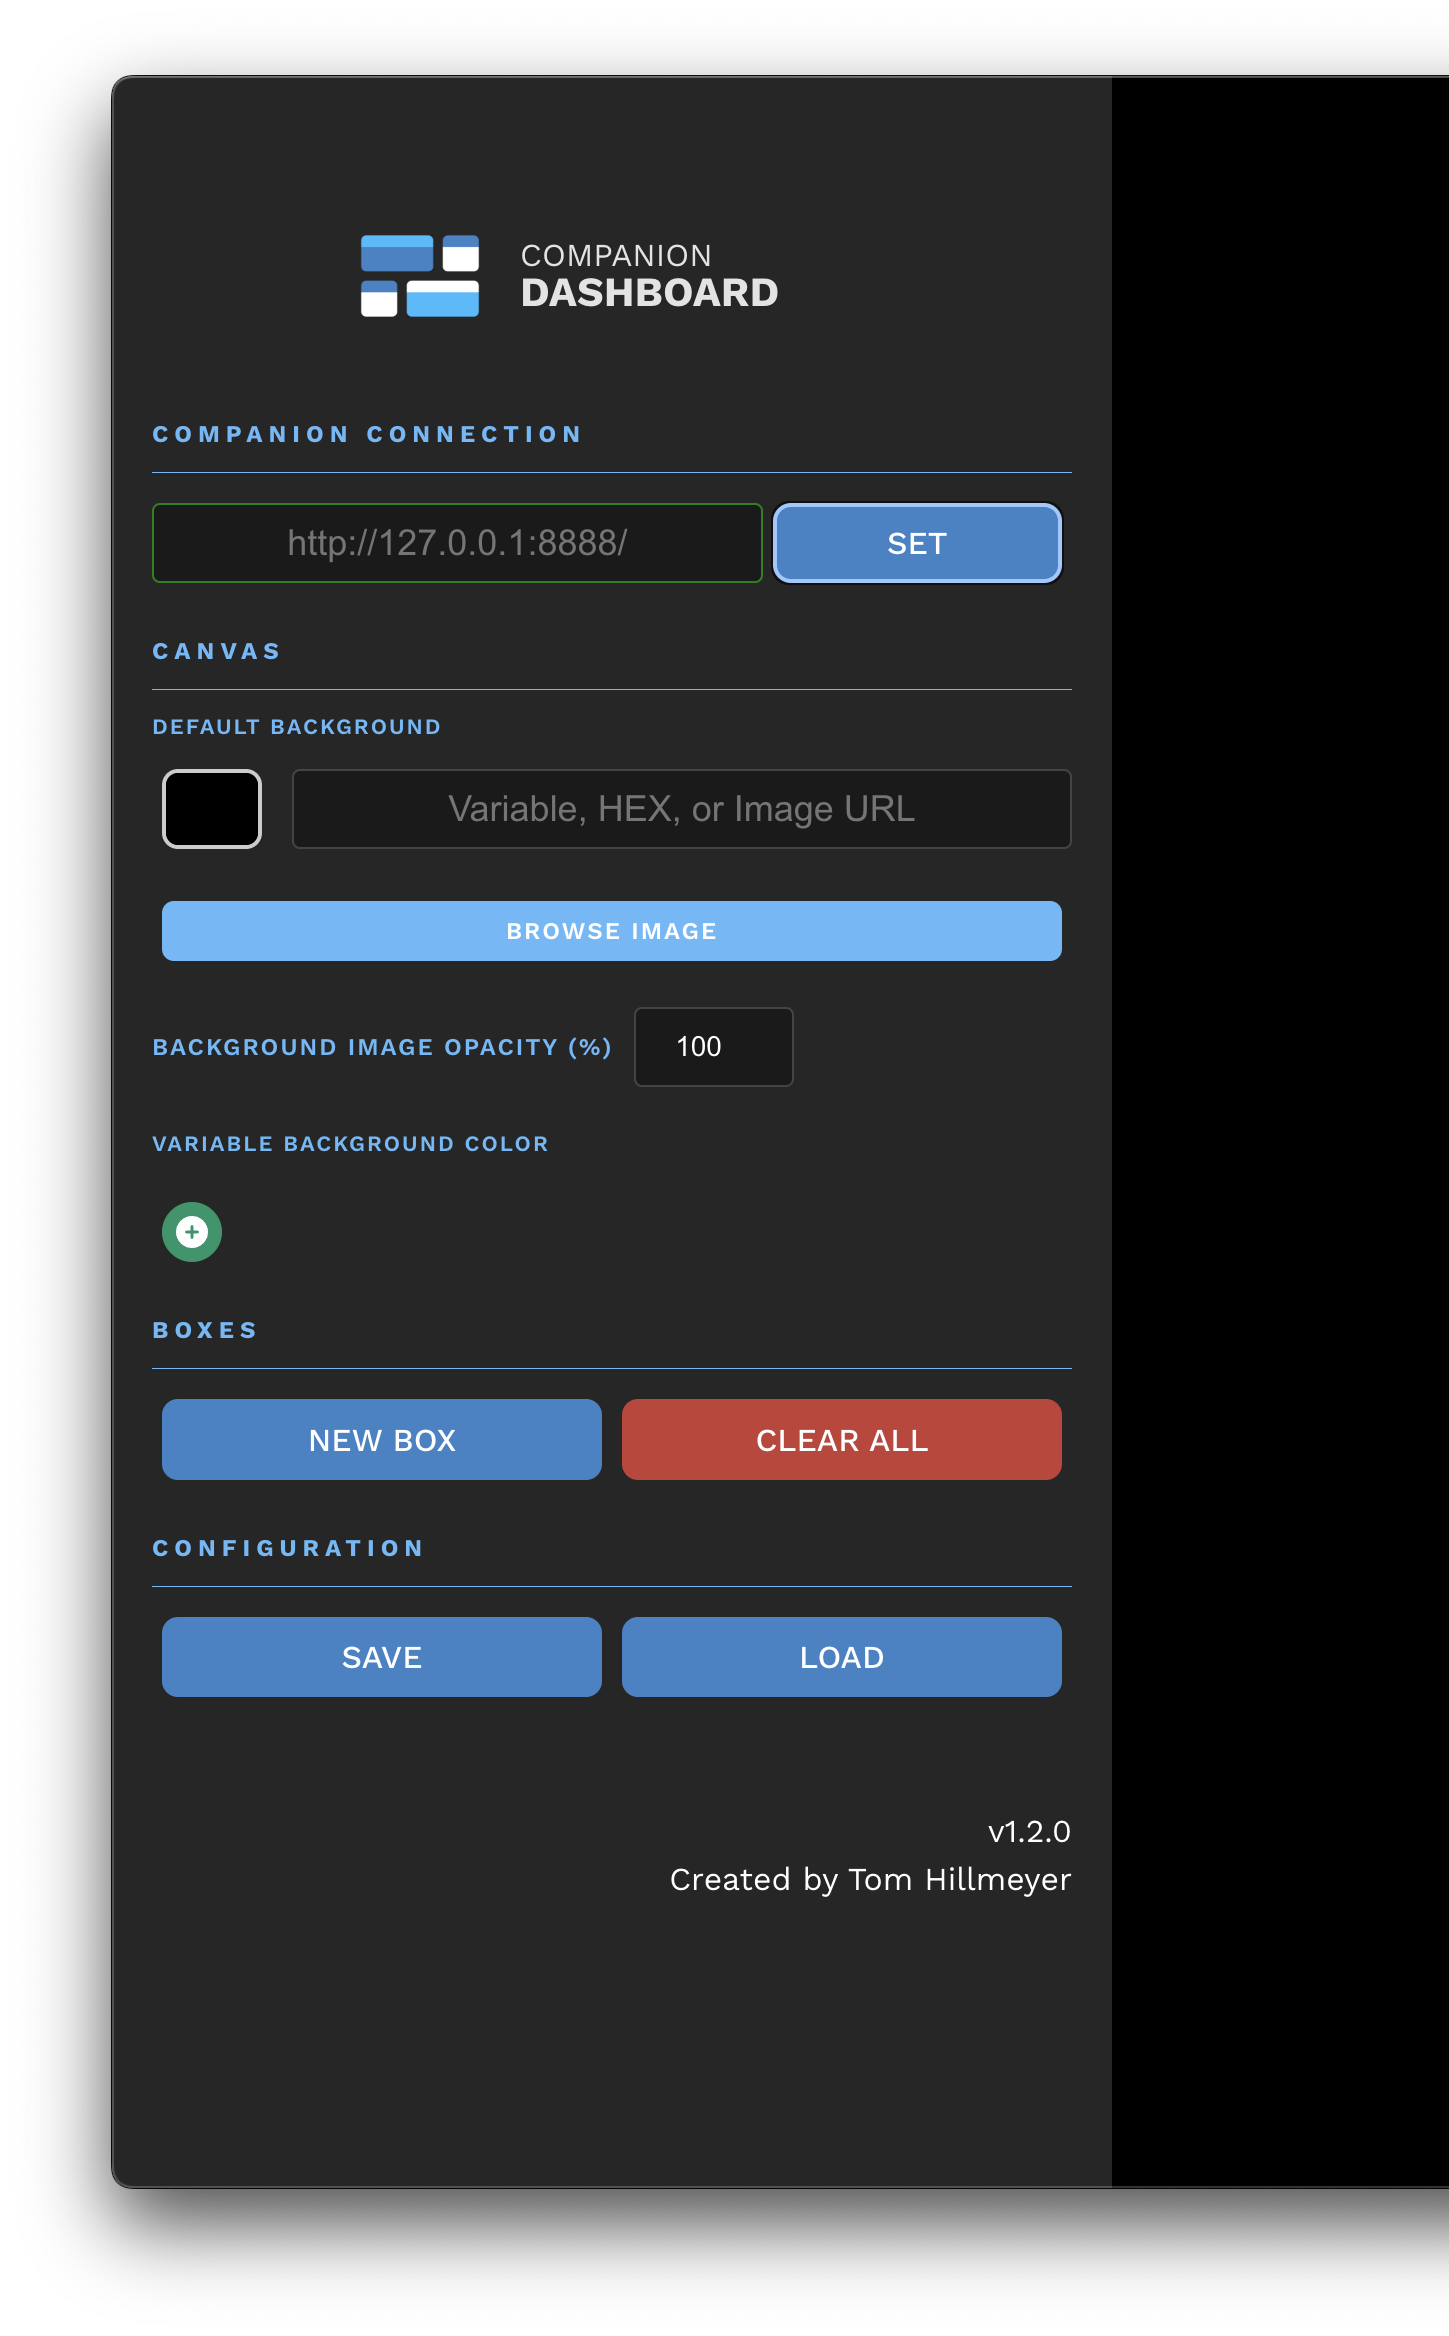
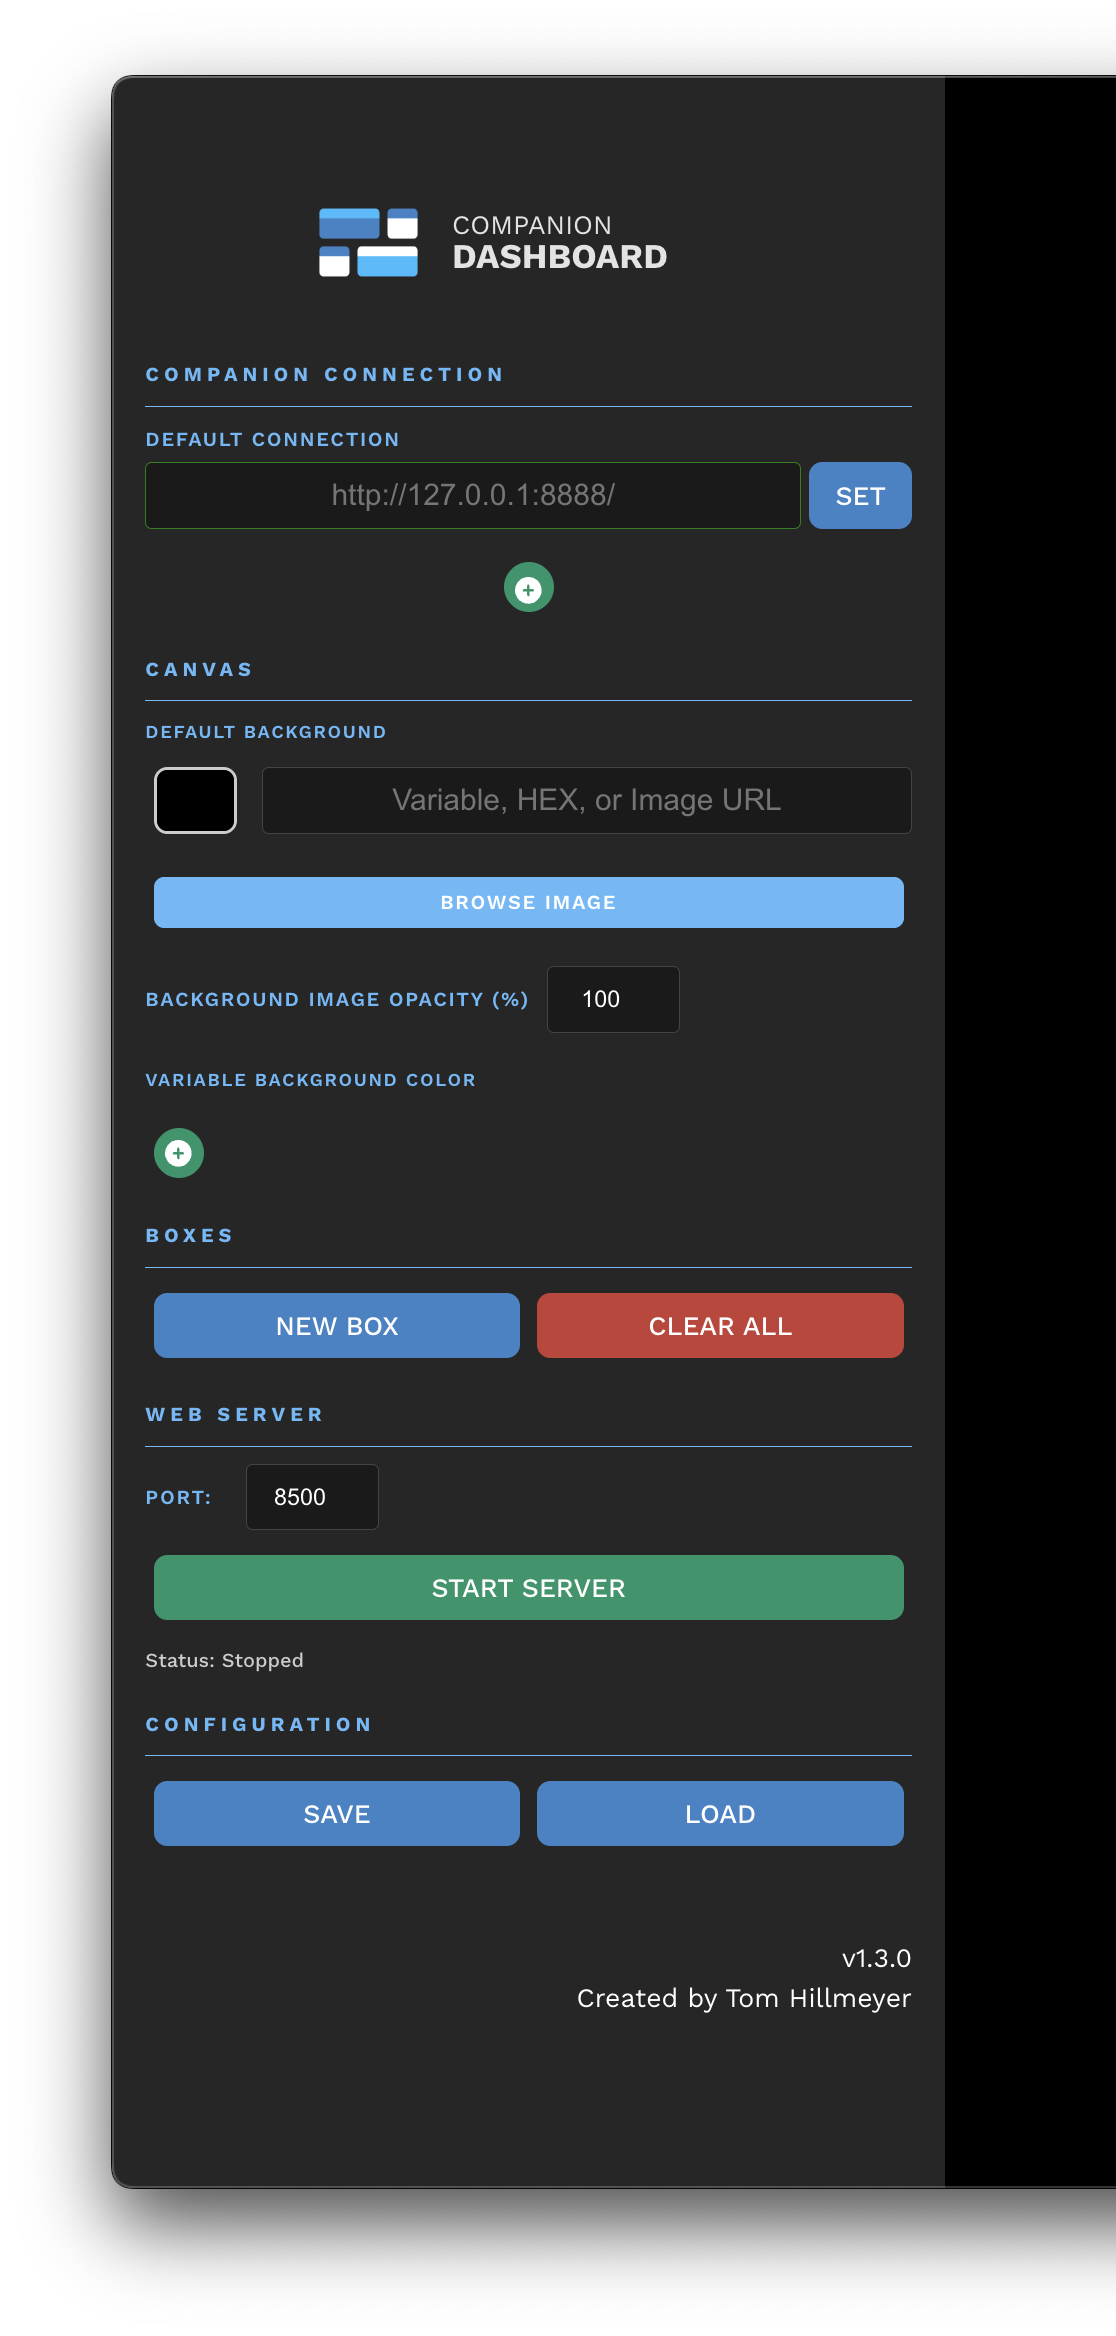
Update README for v1.3.0

Changed region(s): [[0.0609, 0.0312, 0.853, 0.9688], [0.6703, 0.3125, 0.7007, 0.3438], [0.5484, 0.8438, 0.5789, 0.875]]

diff --git a/README.md b/README.md
@@ -45,9 +45,11 @@ Use control keys and MIDI to control Companion directly from the console, and us
 ![App Screenshot](https://raw.githubusercontent.com/tomhillmeyer/companion-dashboard/refs/heads/main/screenshots/settings-menu.png)
 
 - The settings pane opens from the left side of the screen. Open it with the arrow / carrot in the bottom left of the viewport, or by swiping from the left on touch screen devices
-- Input the address:port of your Companion instance and click "Set Connection." The outline around the address will turn green if it's connected to Companion.
+- Input the address:port of your Companion instance and click "Set" The outline around the address will turn green if it's connected to Companion.
+    - Use the green "+" button to add more Companion connections
 - The canvas settings let you set a background color for the dashboard.
 - Click "New Box" to add a new box to the canvas. "Clear All Boxes" clears all of the boxes off of the canvas.
+- The web server lets you start the output of your Dashboard to a network location.
 - "Save" and "Load" allow you to download box details, layout, and Companion connection into a file to be restored from later. Loading a configuration replaces whatever configuration is in place.
 
 ![App Screenshot](https://raw.githubusercontent.com/tomhillmeyer/companion-dashboard/refs/heads/main/screenshots/resize-handles.png)
@@ -57,6 +59,10 @@ Use control keys and MIDI to control Companion directly from the console, and us
 ![App Screenshot](https://raw.githubusercontent.com/tomhillmeyer/companion-dashboard/refs/heads/main/screenshots/box-settings-modal.png)
 
 - Double clicking a box launches the settings window for that box.
+
+## Variables
+- Including a variable in the standard Companion notation of `$(connection:variable)` will automatically replace that variable with its value on your dashboard.
+- The variable by itself will use the default Companion connection. If you add `[X]` immediately before the variable, it'll use that connection. For example, `[1]$(connection:variable)` will pull that variable from the [1] connection rather than the default connection.
 
 ## Color logic
 All color pickers in Companion Dashboard have three options, in this order of priority:
